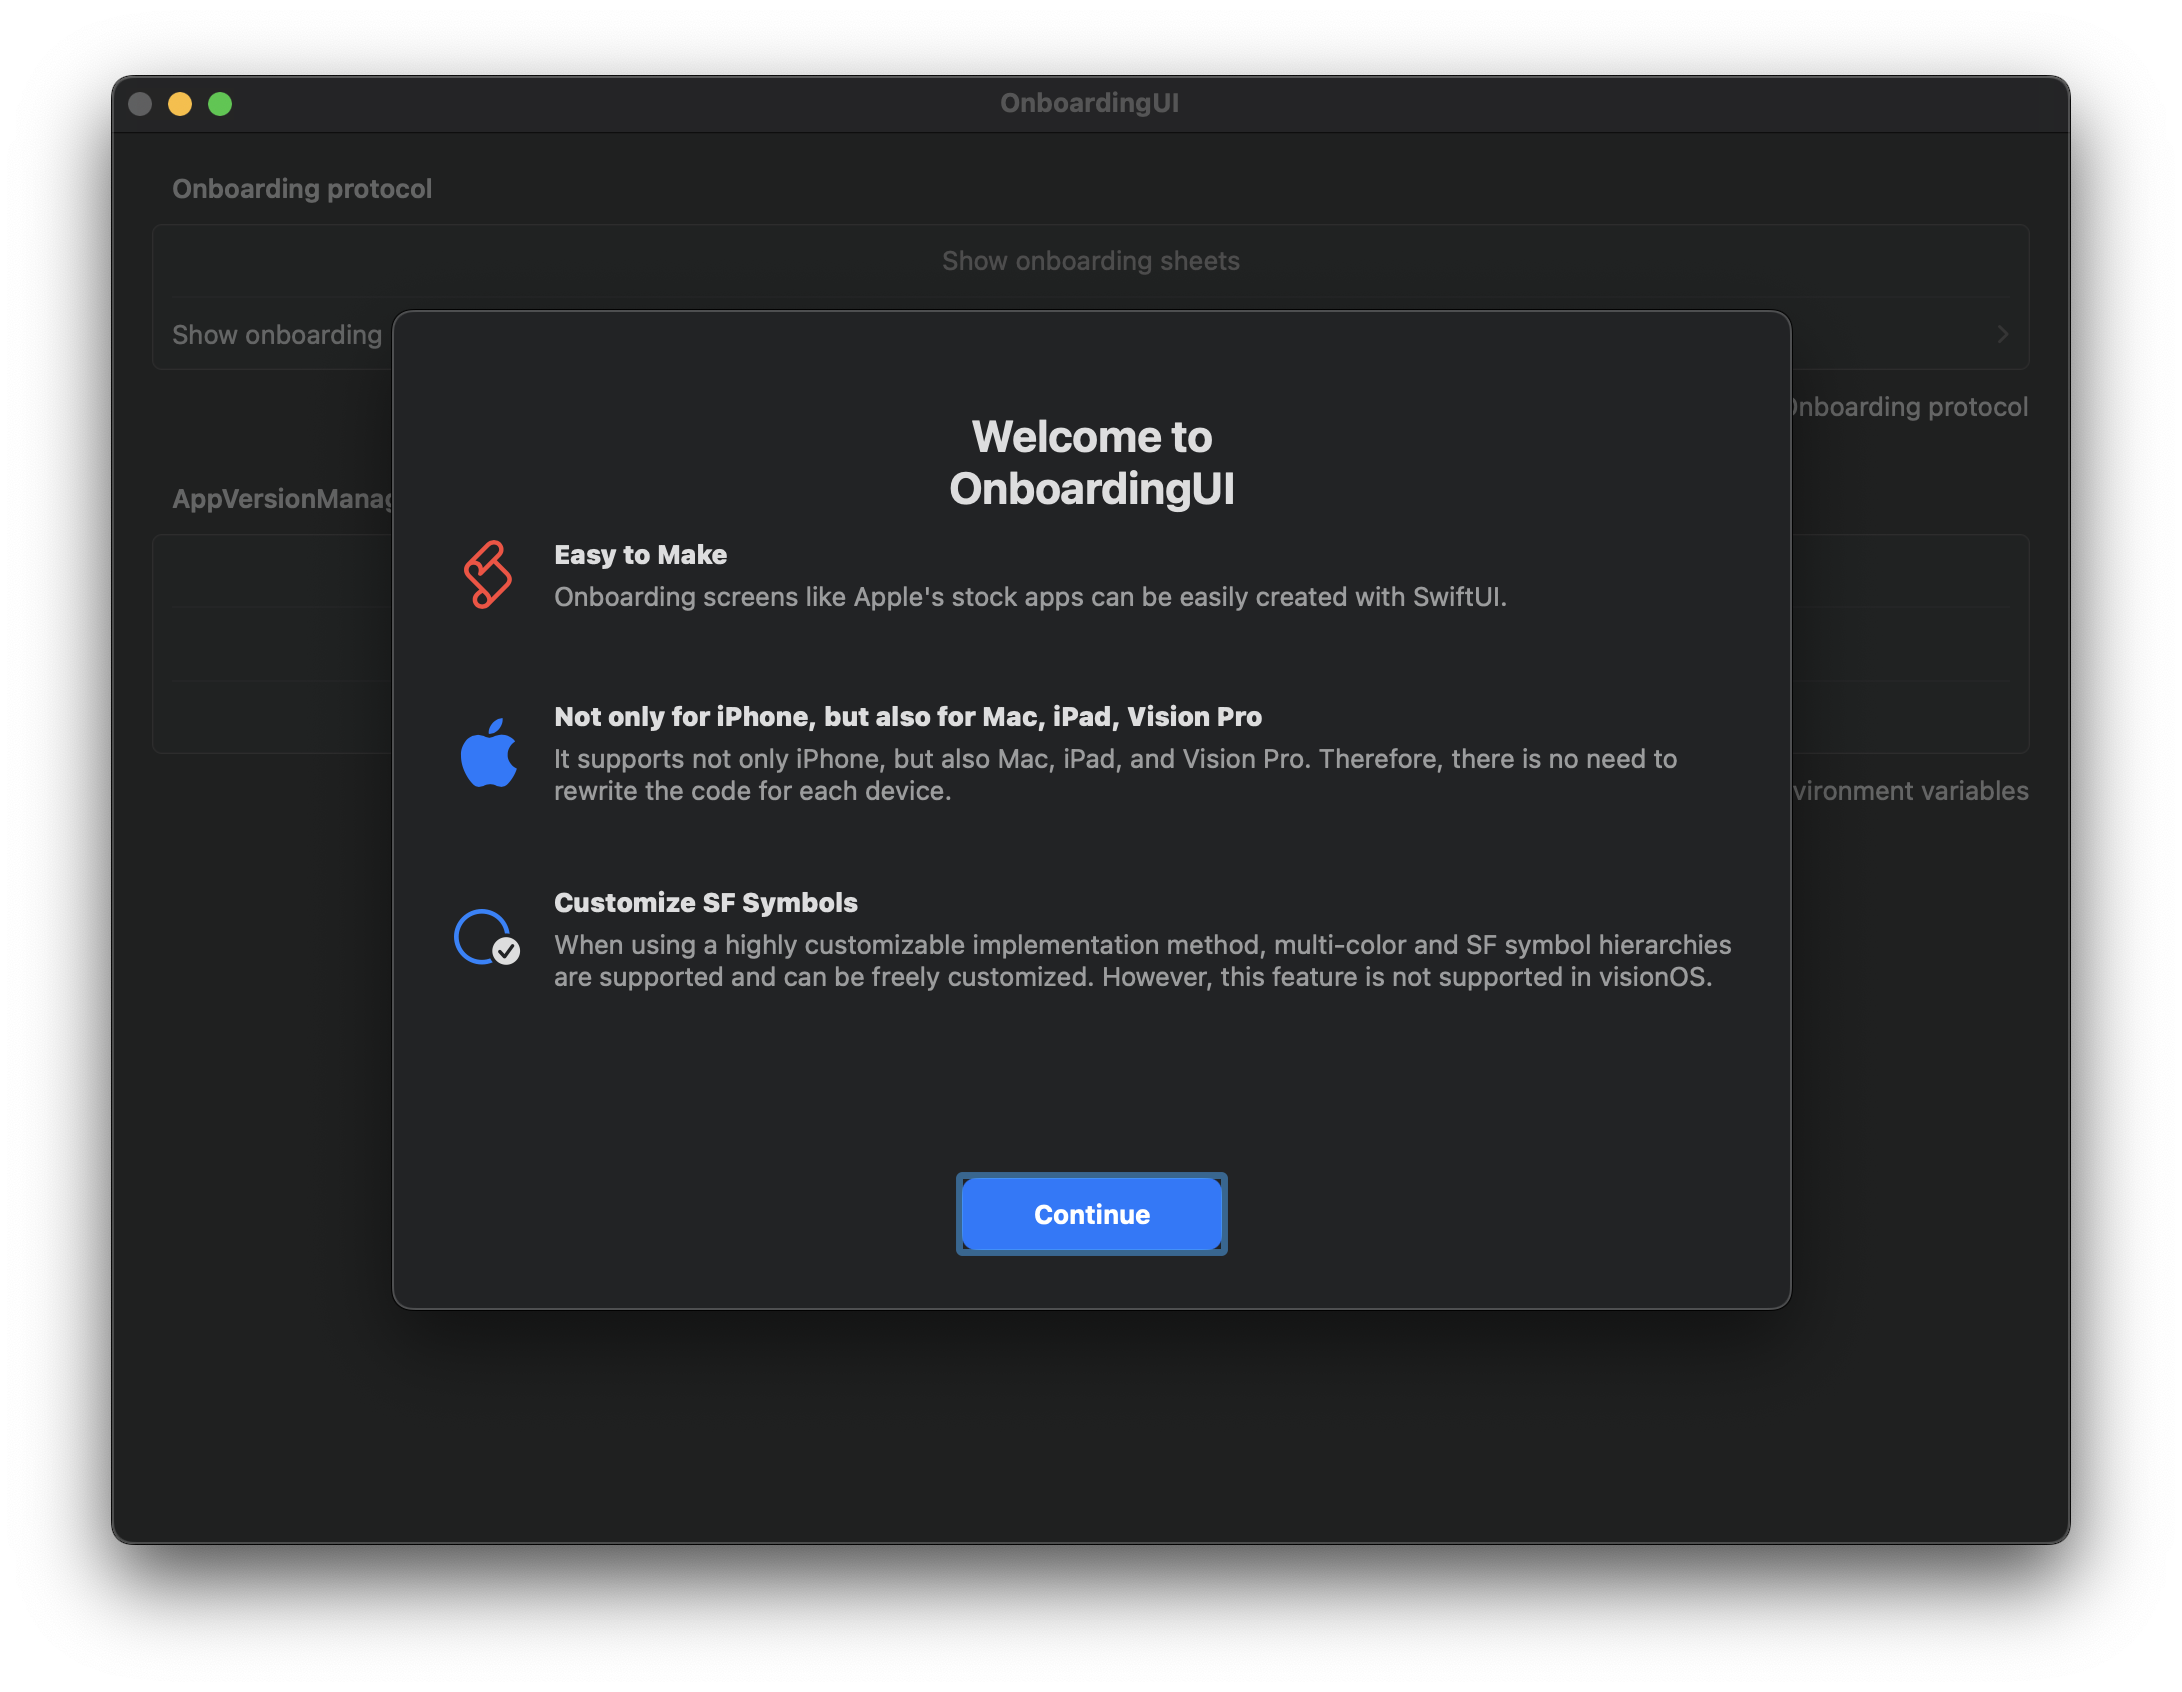
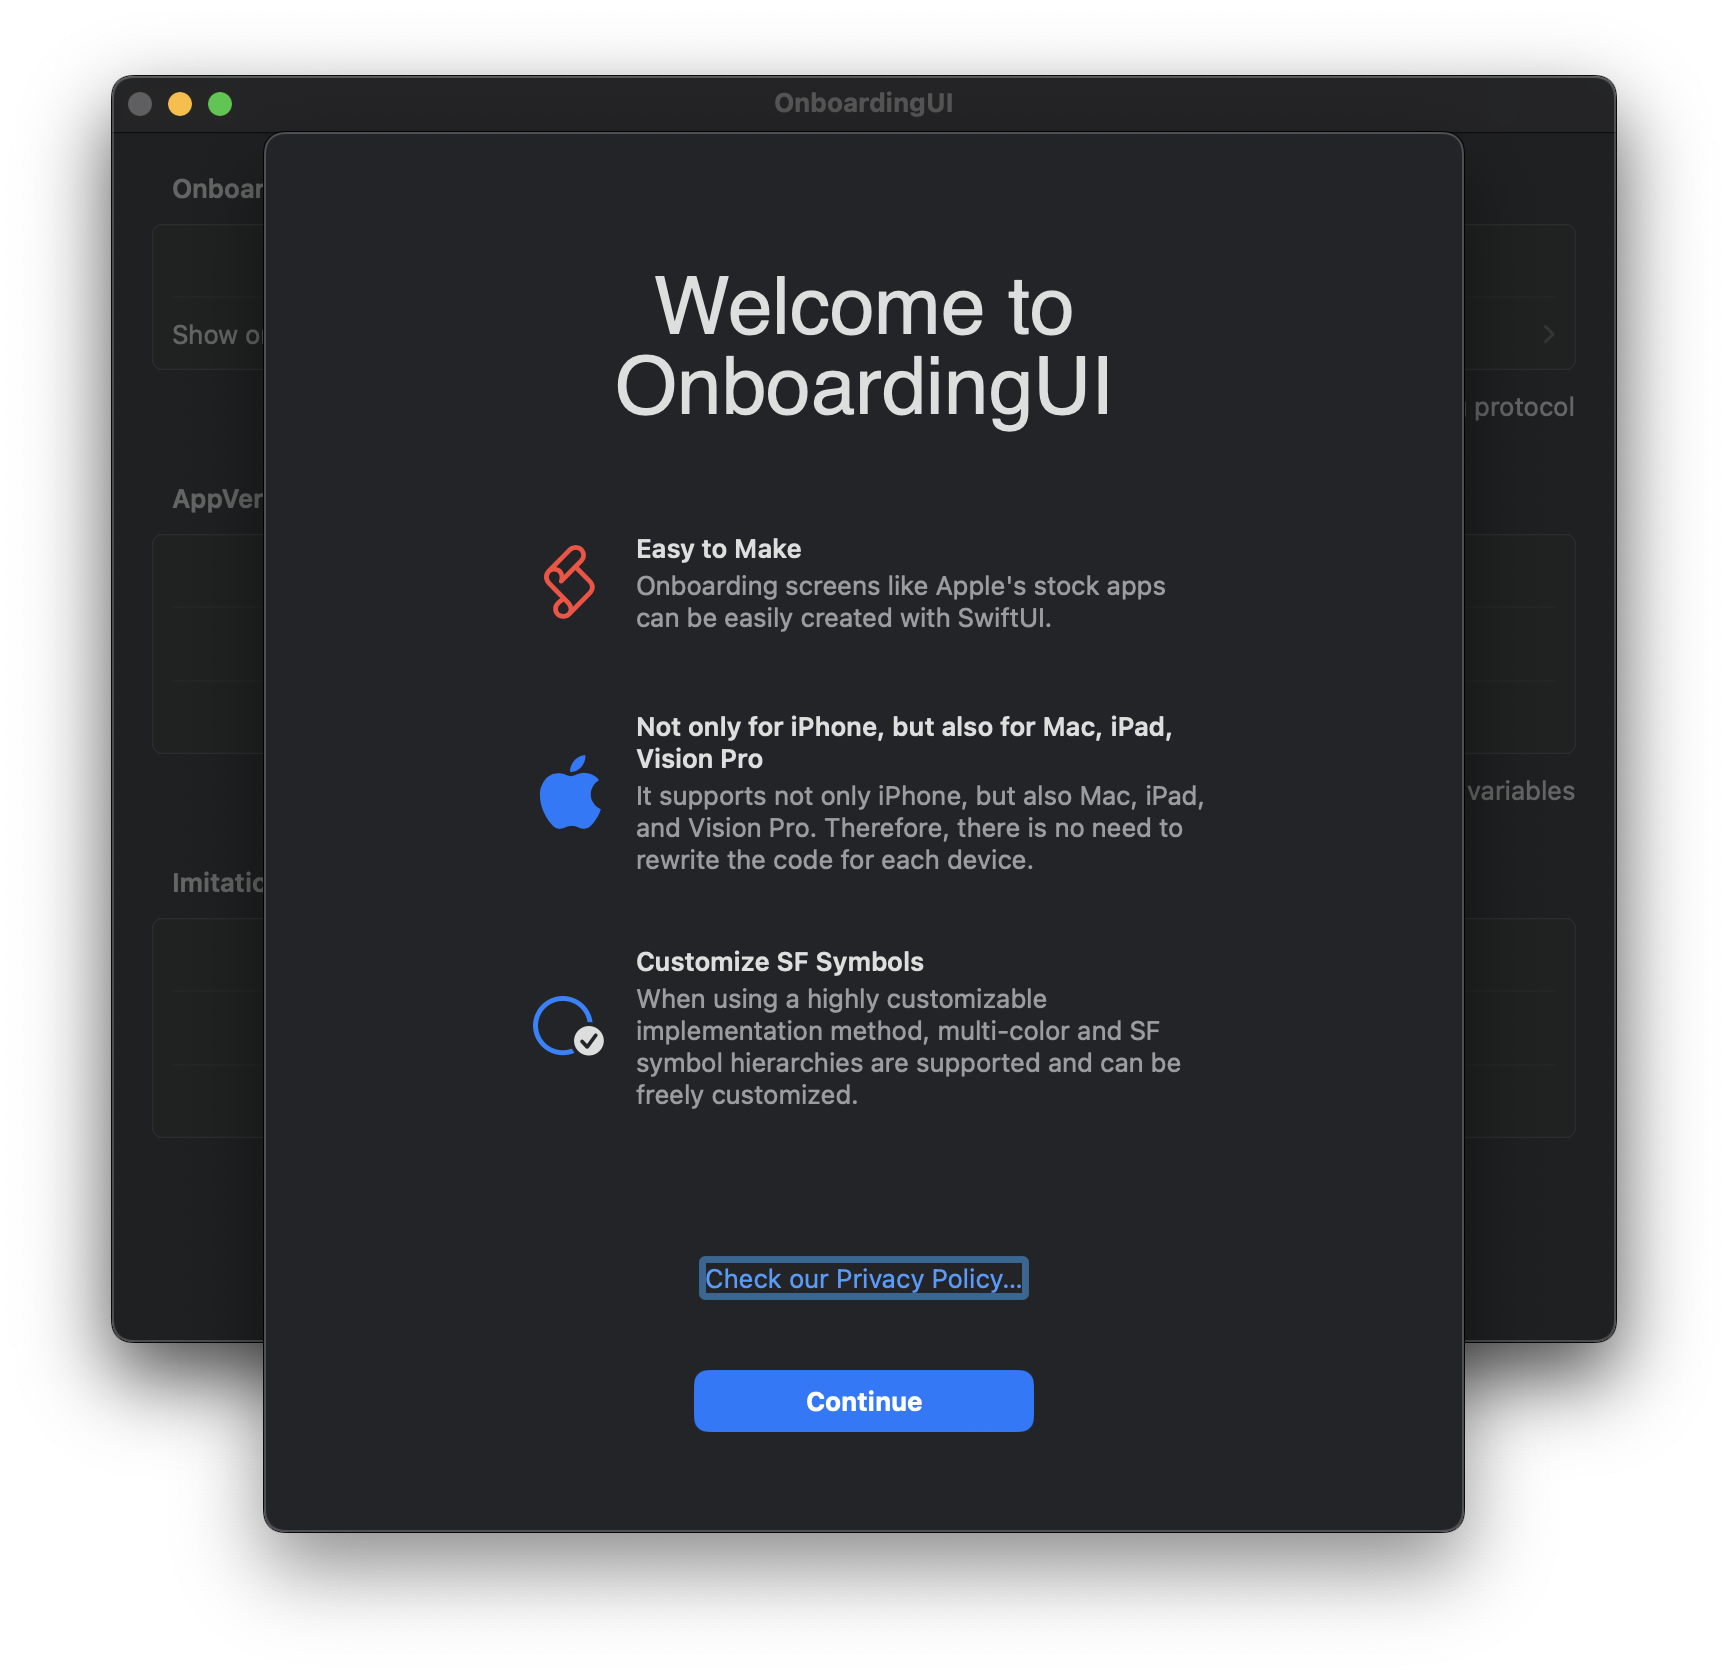
This version includes a change in the name of the mesot and minor modifications to the display.

diff --git a/Sources/OnboardingUI/Processing/AppVersionManager.swift b/Sources/OnboardingUI/Processing/AppVersionManager.swift
@@ -23,7 +23,7 @@ public class AppVersionManager {
         }
     }
     /// Whether or not this is the first activation.
-    public var isTheFirstActivation: Bool {
+    public var isTheFirstLaunch: Bool {
         get {
             return lastOpenedVersion == ""
         }
@@ -45,13 +45,12 @@ public class AppVersionManager {
         }
     }
     /// Variable to detect if the minor version number or higher has increased.
-    public var isMinorOrPatchVersionUpdated: Bool {
+    public var isMajorOrMinorVersionUpdated: Bool {
         get {
             let lastOpenedComponents = filled(splitByDot(lastOpenedVersion), count: 3)
             let currentComponents = filled(splitByDot(version), count: 3)
-            return lastOpenedComponents[0] == currentComponents[0] &&
-            (lastOpenedComponents[1] < currentComponents[1] ||
-             (lastOpenedComponents[1] == currentComponents[1] && lastOpenedComponents[2] < currentComponents[2]))
+            return (lastOpenedComponents[0] < currentComponents[0] && lastOpenedComponents[1] <= currentComponents[1]) ||
+            (lastOpenedComponents[0] <= currentComponents[0] && lastOpenedComponents[1] < currentComponents[1])
         }
         
         set {
@@ -75,19 +74,5 @@ public extension EnvironmentValues {
     var appVersionManager: AppVersionManager {
         get { self[AppVersionManagerKey.self] }
         set { self[AppVersionManagerKey.self] = newValue }
-    }
-}
-/// Function to split the version number dot by dot
-@available(iOS 17.0,macOS 14.0,watchOS 10.0,tvOS 17.0,visionOS 1.0,*)
-func splitByDot(_ versionNumber: String) -> [Int] {
-    return versionNumber.split(separator: ".").map { string -> Int in
-        return Int(string) ?? 0
-    }
-}
-/// Function to unify the number of elements in an array
-@available(iOS 17.0,macOS 14.0,watchOS 10.0,tvOS 17.0,visionOS 1.0,*)
-func filled(_ target: [Int], count: Int) -> [Int] {
-    return (0..<count).map { i -> Int in
-        (i < target.count) ? target[i] : 0
     }
 }

diff --git a/Sources/OnboardingUI/UI/View/OnboardingSheetView.swift b/Sources/OnboardingUI/UI/View/OnboardingSheetView.swift
@@ -15,7 +15,7 @@ public struct OnboardingSheetView<V1: View,V2: View,V3: View,V4: View>: View {
     var title: V1
     /// View displaying features
     var content: V2
-    
+    /// Link View
     var link: V3
     /// Button view at the bottom
     var button: V4
@@ -71,19 +71,27 @@ public struct OnboardingSheetView<V1: View,V2: View,V3: View,V4: View>: View {
 #else
                         .frame(maxWidth: .infinity)
 #endif
-                        if dynamicTypeSize > .xxxLarge {
-                            link
-                            
-                            button
-#if os(iOS)
-                                .padding(.bottom, 70 - geom.size.height/15 + geom.size.height/20)
-#elseif os(visionOS)
-                                .padding(.bottom, geom.size.height/25)
-#elseif os(macOS)
-                                .padding(.bottom, 15 + geom.size.height/20)
+                        VStack {
+                            if dynamicTypeSize > .xxxLarge {
+                                link
+#if os(macOS)
+                                    .padding(30)
 #else
-                                .padding(.bottom, geom.size.height/20)
+                                    .padding(.vertical, 5)
 #endif
+                                
+                                button
+#if os(iOS)
+                                    .padding(.top, 10)
+                                    .padding(.bottom, 70 - geom.size.height/15 + geom.size.height/20)
+#elseif os(visionOS)
+                                    .padding(.bottom, geom.size.height/25)
+#elseif os(macOS)
+                                    .padding(.bottom, 15 + geom.size.height/20)
+#else
+                                    .padding(.bottom, geom.size.height/20)
+#endif
+                            }
                         }
                     }
 #if os(visionOS)

diff --git a/.Sample/Sample/ContentView.swift b/.Sample/Sample/ContentView.swift
@@ -116,9 +116,9 @@ struct ContentView: View {
             .navigationTitle("OnboardingUI")
             .formStyle(.grouped)
         }
-        .sheet(isPresented: $appVersionManager.isTheFirstActivation) {
+        .sheet(isPresented: $appVersionManager.isTheFirstLaunch) {
             WelcomeOnboardingSheetView(action: {
-                appVersionManager.isTheFirstActivation = false
+                appVersionManager.isTheFirstLaunch = false
             })
         }
         .sheet(isPresented: $appVersionManager.isMajorVersionUpdated) {
@@ -126,9 +126,9 @@ struct ContentView: View {
                 appVersionManager.isMajorVersionUpdated = false
             })
         }
-        .sheet(isPresented: $appVersionManager.isMinorOrPatchVersionUpdated) {
+        .sheet(isPresented: $appVersionManager.isMajorOrMinorVersionUpdated) {
             NewFeatureOnboardingSheetView(action: {
-                appVersionManager.isMinorOrPatchVersionUpdated = false
+                appVersionManager.isMajorOrMinorVersionUpdated = false
             })
         }
         .onboardingSheet(isPresented: $isOpenSheet, WelcomeOnboarding())

diff --git a/Sources/OnboardingUI/Processing/Functions.swift b/Sources/OnboardingUI/Processing/Functions.swift
@@ -1,0 +1,24 @@
+//
+//  Functions.swift
+//  
+//  
+//  Created by Keisuke Chinone on 2023/12/30.
+//
+
+
+import Foundation
+
+/// Function to split the version number dot by dot
+@available(iOS 17.0,macOS 14.0,watchOS 10.0,tvOS 17.0,visionOS 1.0,*)
+func splitByDot(_ versionNumber: String) -> [Int] {
+    return versionNumber.split(separator: ".").map { string -> Int in
+        return Int(string) ?? 0
+    }
+}
+/// Function to unify the number of elements in an array
+@available(iOS 17.0,macOS 14.0,watchOS 10.0,tvOS 17.0,visionOS 1.0,*)
+func filled(_ target: [Int], count: Int) -> [Int] {
+    return (0..<count).map { i -> Int in
+        (i < target.count) ? target[i] : 0
+    }
+}

diff --git a/.Sample/Sample/UI/NewFeatureOnboardingSheetView.swift b/.Sample/Sample/UI/NewFeatureOnboardingSheetView.swift
@@ -19,7 +19,7 @@ struct NewFeatureOnboardingSheetView: View {
         OnboardingSheetView {
             OnboardingTitle("What's New in\nOnboardingUI")
         } content: {
-            OnboardingItem(systemName: "wrench.and.screwdriver",shape: .red) {
+            OnboardingItem(systemName: "tree",shape: .green) {
                 OnboardingSubtitle("New AppVersionManager environment variable")
                 OnboardingContent("The new AppVersionManager environment variable allows you to display onboarding at the intended time.")
             }

diff --git a/.Sample/Sample/UI/WelcomeOnboardingSheetView.swift b/.Sample/Sample/UI/WelcomeOnboardingSheetView.swift
@@ -34,6 +34,8 @@ struct WelcomeOnboardingSheetView: View {
                 OnboardingSubtitle("Customize SF Symbols")
                 OnboardingContent("When using a highly customizable implementation method, multi-color and SF symbol hierarchies are supported and can be freely customized.")
             }
+        } link: {
+            Link("Check our Privacy Policy…", destination: URL(string: "https://kc-2001ms.github.io/en/privacy.html")!)
         } button: {
             ContinueButton(color: .accentColor, action: action)
         }

diff --git a/.Sample/Sample/Onboardings.swift b/.Sample/Sample/Onboardings.swift
@@ -57,7 +57,7 @@ struct WhatIsNewOnboarding: Onboarding {
     var features: Array<Feature> {
         Feature(
             "New AppVersionManager environment variable" ,
-            imageName: "wrench.and.screwdriver",
+            imageName: "tree",
             message: "The new AppVersionManager environment variable allows you to display onboarding at the intended time."
         )
         

diff --git a/README.md b/README.md
@@ -92,7 +92,7 @@ struct SimpleImplementationView: View {
     var body: some View {
         @Bindable var appVersionManager = appVersionManager
         SomeView()
-            .sheetOnboarding(isPresented: $appVersionManager.isTheFirstActivation, WelcomeOnboarding())
+            .onboardingSheet(isPresented: $appVersionManager.isTheFirstLaunch, WelcomeOnboarding())
     }
 }
 ```
@@ -128,7 +128,7 @@ struct WelcomeOnboardingSheetView: View {
     }
     
     var body: some View {
-        OnboardingSheet {
+        OnboardingSheetView {
             OnboardingTitle("Welcome to\nOnboardingUI")
         } content: {
             OnboardingItem(systemName: "applescript",shape: .red) {
@@ -143,16 +143,14 @@ struct WelcomeOnboardingSheetView: View {
             
             OnboardingItem(systemName: "circle.badge.checkmark",mode: .palette,primary: .primary,secondary: .blue) {
                 OnboardingSubtitle("Customize SF Symbols")
-                OnboardingContent("When using a highly customizable implementation method, multi-color and SF symbol hierarchies are supported and can be freely customized. However, this feature is not supported in visionOS.")
+                OnboardingContent("When using a highly customizable implementation method, multi-color and SF symbol hierarchies are supported and can be freely customized.")
             }
+        } link: {
+            Link("Check our Privacy Policy…", destination: URL(string: "https://kc-2001ms.github.io/en/privacy.html")!)
         } button: {
             ContinueButton(color: .accentColor, action: action)
         }
     }
-}
-
-#Preview {
-    WelcomeOnboardingSheetView(action: {})
 }
 ```
 
@@ -165,9 +163,9 @@ struct SimpleImplementationView: View {
     var body: some View {
         @Bindable var appVersionManager = appVersionManager
         SomeView()
-            .sheet(isPresented: $appVersionManager.isTheFirstActivation) {
+            .sheet(isPresented: $appVersionManager.isTheFirstLaunch) {
                 WelcomeOnboardingSheetView(action: {
-                    appVersionManager.isTheFirstActivation = false
+                    appVersionManager.isTheFirstLaunch = false
                 })
             }
     }
